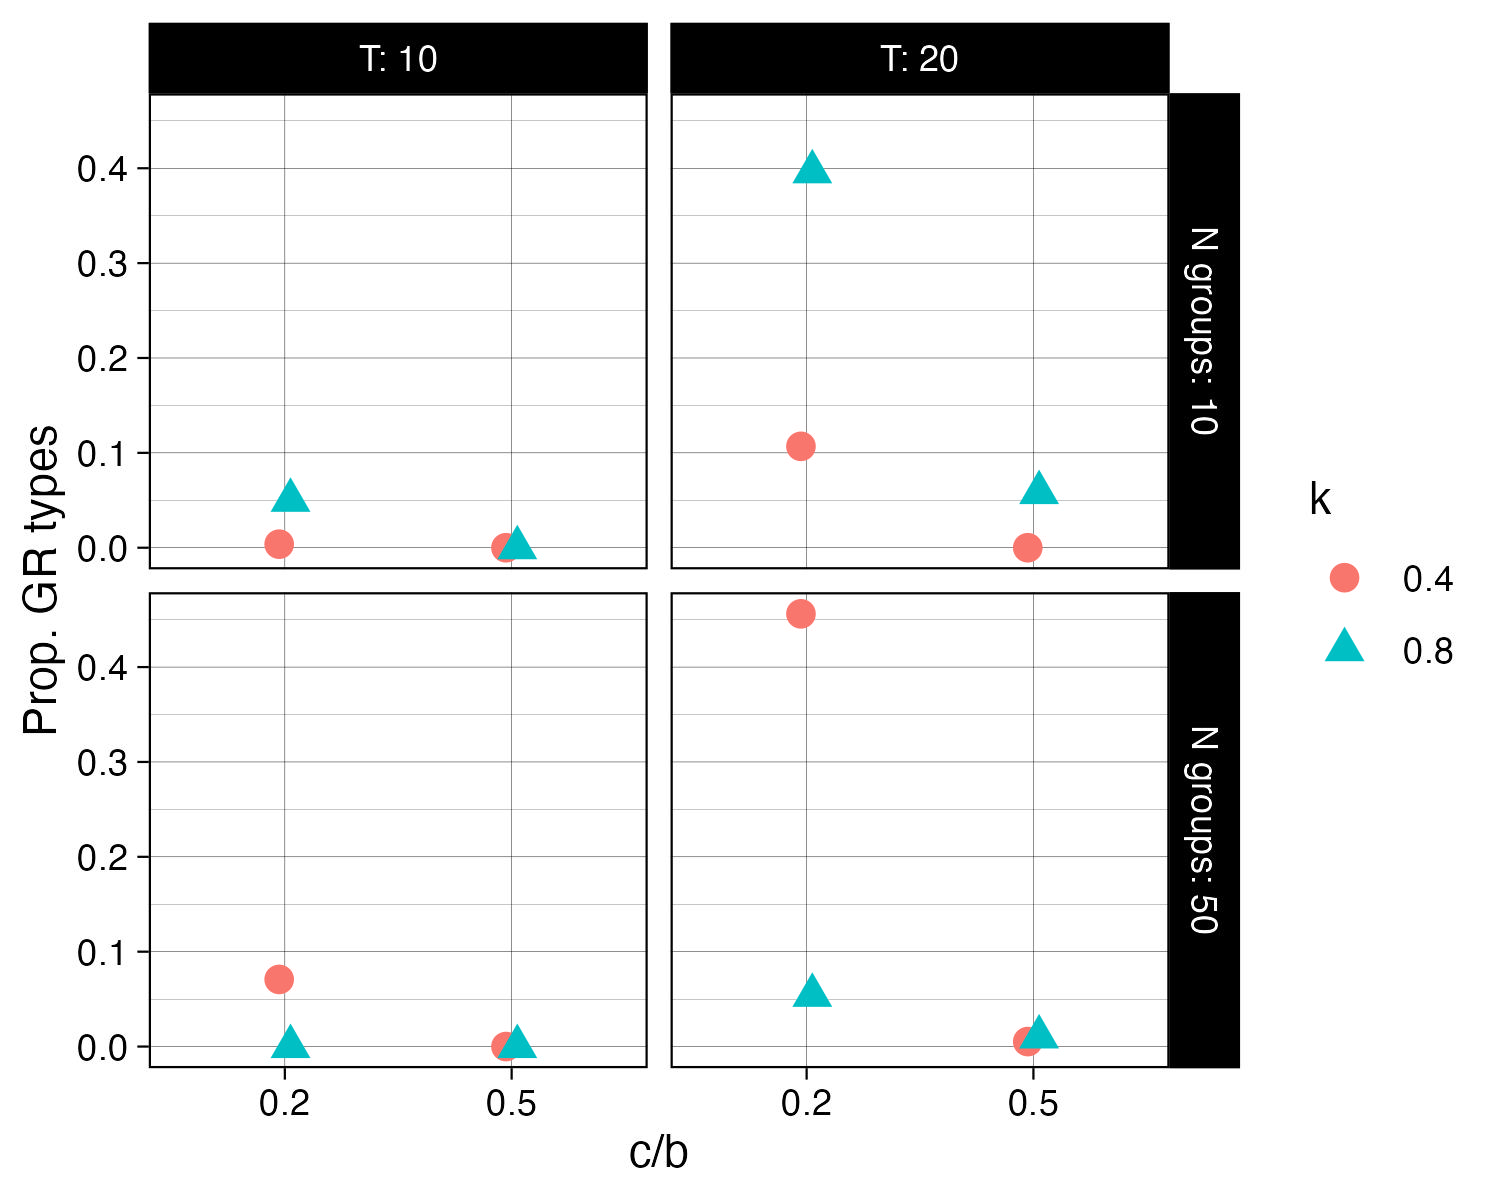
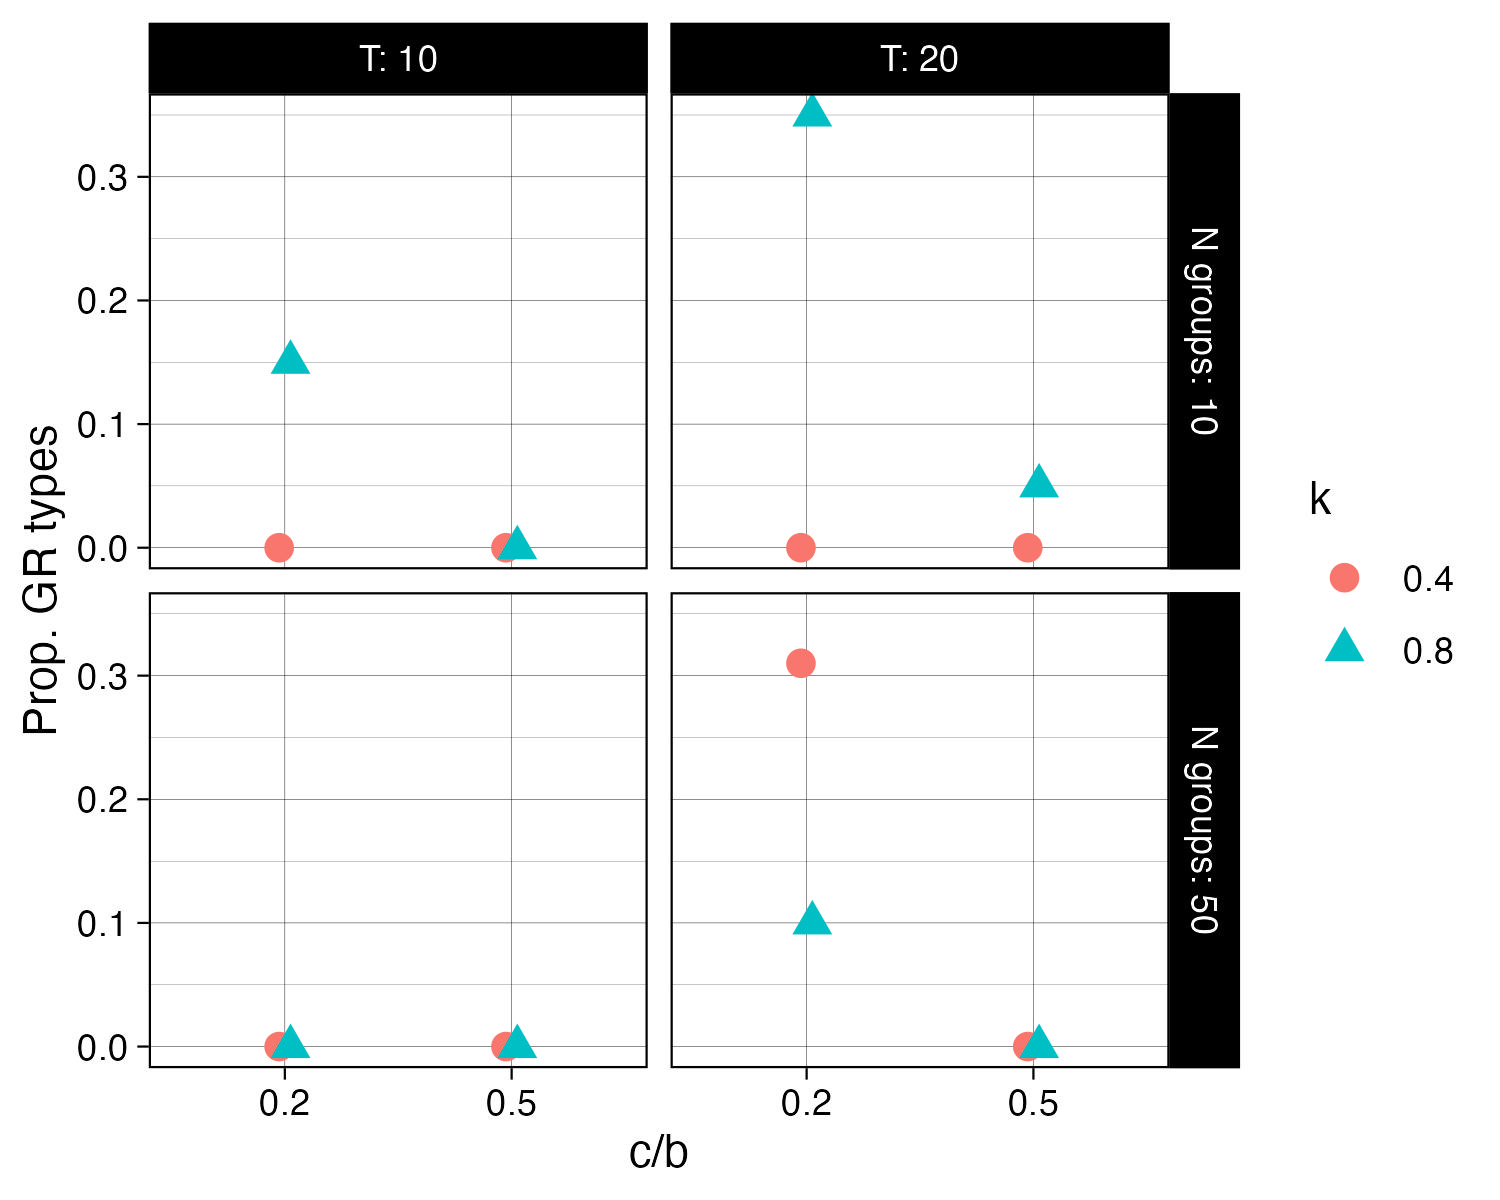
Used more generations in simulation

diff --git a/Working paper.tex b/Working paper.tex
@@ -339,19 +339,23 @@ number of rounds $T$ in each generation. To check how these simplifications affe
 the result, we run simulations. We use the following sets of parameters:
 $c/b = 0.2, 0.5$; $T = 10, 20$; N groups = $10, 50$; $k = 0.4, 0.8$. This gives
 16 unique combinations of parameters. We always set $G = 8$.
-For each combination we run 20 experiments, each of 100 generations. After
-100 generations we record the proportion of group reciprocators. Note that
-in a finite population, either selfish or GR types will always go to fixation
-eventually. 
+For each combination we run 20 experiments, each of 500 generations. After
+500 generations we record the proportion of group reciprocators. 
 
 Figure \ref{fig:sims} shows the mean proportion of GR types across all experiments for
-each combination of parameters. A shorter number of periods $T$ leads to fewer 
+each combination of parameters. For all combinations of parameters but one,
+either GR types or selfish types always went to fixation within 500 rounds. In
+these cases, the proportion of GR types is just the proportion of experiments
+where GR types went to fixation.
+
+A shorter number of periods $T$ leads to fewer 
 GR types, as expected since it gives more weight to the early-round losses of GR 
 types. The number of groups does not seem to affect the evolution of GR types. As
 expect, a higher cost-benefit ratio $c/b$ leads to fewer GR types. A higher threshold $k$
 also usually leads to more GR types, and in particular when $k < c/b$, group reciprocity
 never evolves. One exception is with 50 groups and $T = 20$: in this case,
-more group reciprocators evolve when $k$ is lower.
+more group reciprocators evolve when $k = 0.4$. This is also the sole
+parameter combination where not all experiments went to fixation.
 
 \begin{figure}[h]
   \caption{Simulation results. Plots show proportions of group reciprocator types after 100 generations.}
